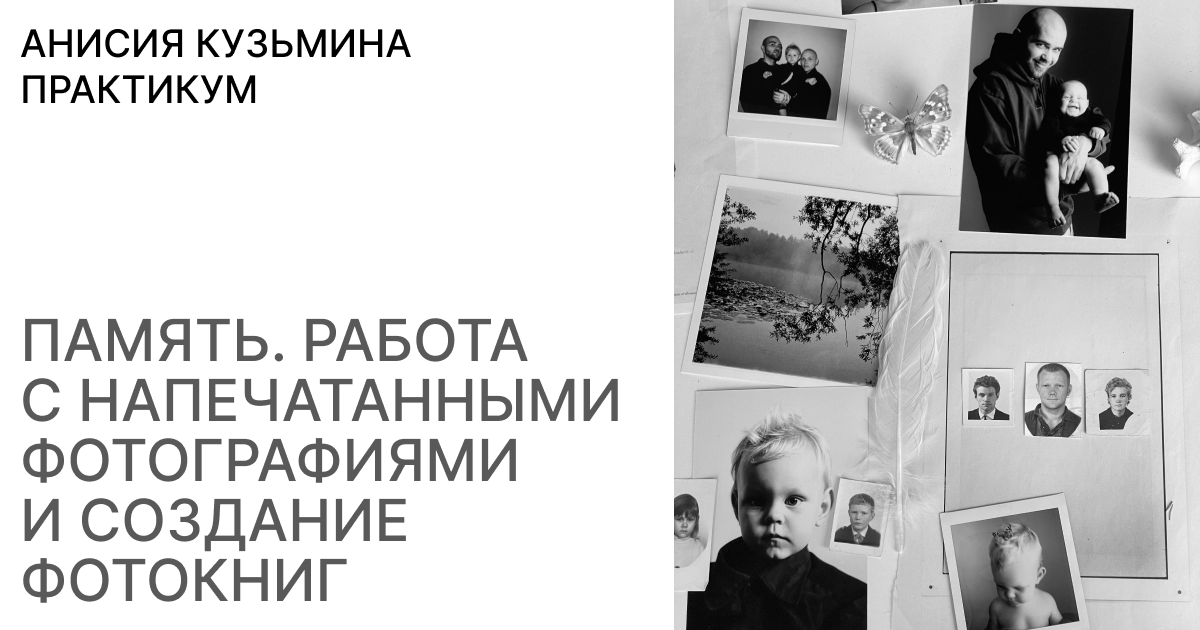
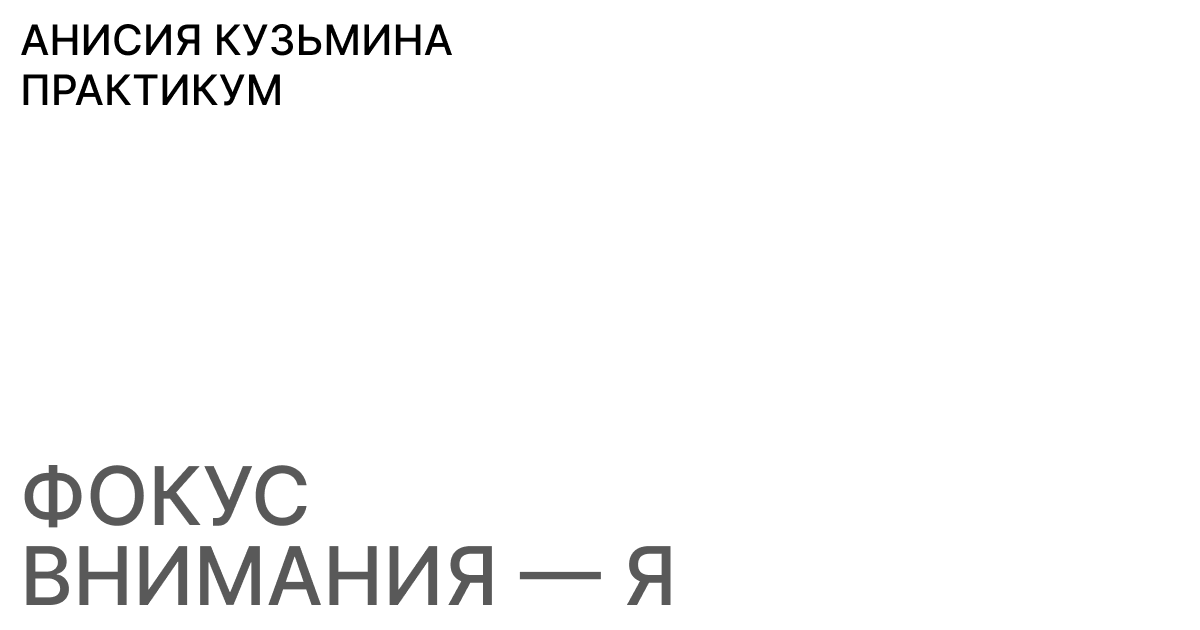
feat: add new meta & pics

diff --git a/src/pages/_app.js b/src/pages/_app.js
@@ -7,7 +7,7 @@ export default function App({ Component, pageProps }) {
   return (
     <>
       <Head>
-        <title>Анисия Кузьмина • Память</title>
+        <title>Анисия Кузьмина • Фокус внимания — Я</title>
         <meta
           name="description"
           content=""
@@ -36,7 +36,7 @@ export default function App({ Component, pageProps }) {
           property="og:title"
           content="Практикум по фотографии с Анисией Кузьминой"
         />
-        <meta property="og:site_name" content="Фокус внимания" />
+        <meta property="og:site_name" content="Фокус внимания — Я" />
         {/* <meta property="og:description" content="Откройте для себя искусство создания фотографий, которые искренне отражают вашу индивидуальность и окружающий мир. Мои упражнения помогут вам не только улучшить технические навыки, но и глубже понять себя, свои предпочтения и эмоции. Начните свое путешествие к самопознанию и творческому росту прямо сейчас" /> */}
         <meta property="og:image" content="/meta/share.png" />
         <meta property="og:image:width" content="1200" />

diff --git a/src/pages/index.js b/src/pages/index.js
@@ -11,8 +11,8 @@ import Footer from "@/components/Footer";
 import Reviews from "@/components/Reviews";
 // import Guests from "@/components/Guests";
 
-import firstImage from "../../public/images/am/R1-06660-0027_sm.jpg";
-import secondImage from "../../public/images/am/IMG_3225_sm.jpg";
+import firstImage from "../../public/images/am/IMG_3637_sm.jpg";
+import secondImage from "../../public/images/am/IMG_5480_sm.jpg";
 
 // const MarqueeLine = ({ reverse = false, className = "" }) => (
 //   <Marquee

diff --git a/src/components/Author.js b/src/components/Author.js
@@ -1,5 +1,5 @@
 import Image from "next/image";
-import aniskuss from "../../public/images/aniskuss.jpg";
+import aniskuss from "../../public/images/am/IMG_3634_sm.jpg";
 
 export default function Author() {
   return (
